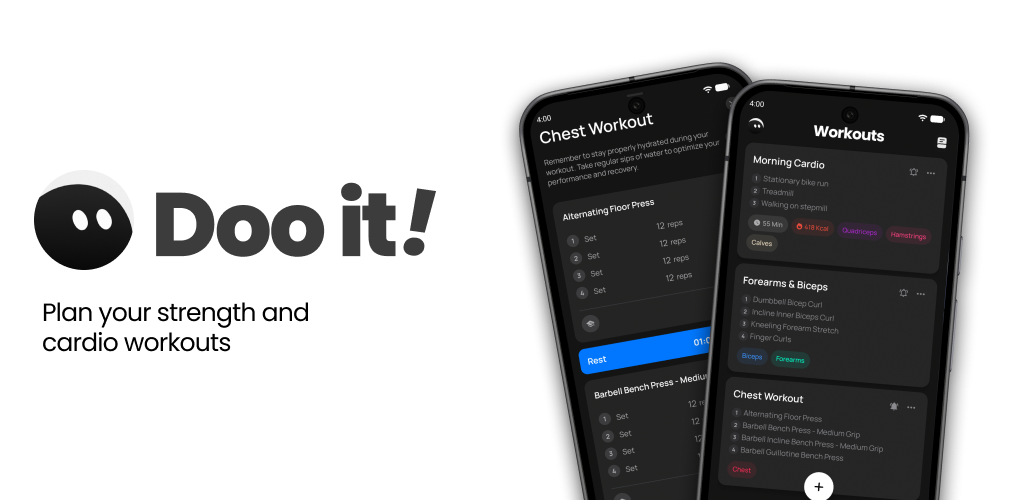
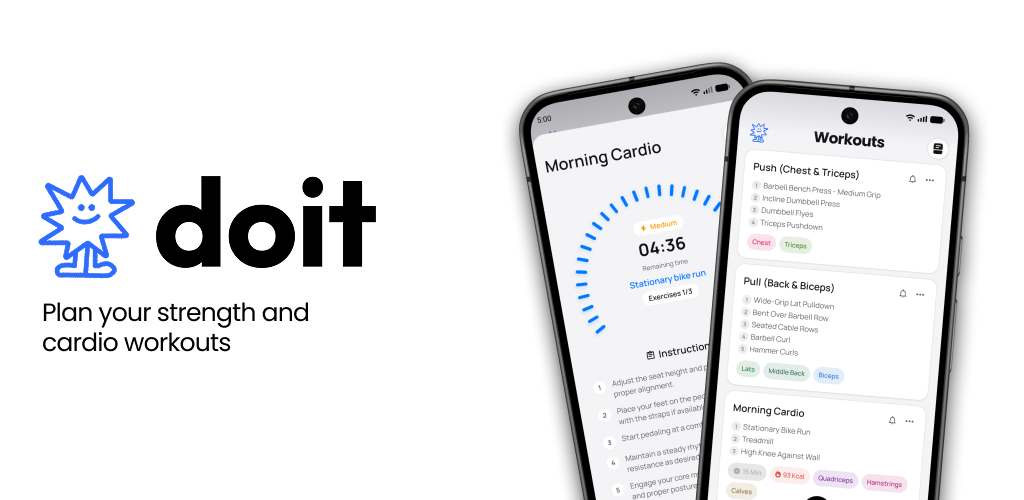
Refresh README branding and screenshots
Renames the app to "doit" in the README, updates screenshot references, adds four new screenshots, and refreshes the documentation assets.

diff --git a/README.md b/README.md
@@ -4,11 +4,11 @@
 
 <br>
 
-# Doo It!
+# doit
 
 ### Plan your strength and cardio workouts
 
-Doo it! is an offline mobile app that lets users create workout routines and track their exercises.
+doit is an offline mobile app that lets users create workout routines and track their exercises.
 The main goal is to offer a free, subscription-free, and offline option so that users can access it anytime, anywhere, since all the information is stored on the device.
 
 </div>
@@ -18,21 +18,27 @@ The main goal is to offer a free, subscription-free, and offline option so that 
 <br>
 
 <div align="center">
-  <img src="docs/assets/screen-1.png" width="30%" hspace="8" />
-  <img src="docs/assets/screen-2.png" width="30%" hspace="8" />
-  <img src="docs/assets/screen-3.png" width="30%" hspace="8" />
+  <img src="docs/assets/screen-(1).png" width="30%" hspace="8" />
+  <img src="docs/assets/screen-(2).png" width="30%" hspace="8" />
+  <img src="docs/assets/screen-(3).png" width="30%" hspace="8" />
 
   <br>
 
-  <img src="docs/assets/screen-4.png" width="30%" hspace="8" />
-  <img src="docs/assets/screen-5.png" width="30%" hspace="8" />
-  <img src="docs/assets/screen-6.png" width="30%" hspace="8" />
+  <img src="docs/assets/screen-(4).png" width="30%" hspace="8" />
+  <img src="docs/assets/screen-(5).png" width="30%" hspace="8" />
+  <img src="docs/assets/screen-(6).png" width="30%" hspace="8" />
 
   <br>
 
-  <img src="docs/assets/screen-7.png" width="30%" hspace="8" />
-  <img src="docs/assets/screen-8.png" width="30%" hspace="8" />
-  <img src="docs/assets/screen-9.png" width="30%" hspace="8" />
+  <img src="docs/assets/screen-(7).png" width="30%" hspace="8" />
+  <img src="docs/assets/screen-(8).png" width="30%" hspace="8" />
+  <img src="docs/assets/screen-(9).png" width="30%" hspace="8" />
+
+  <br>
+
+  <img src="docs/assets/screen-(10).png" width="30%" hspace="8" />
+  <img src="docs/assets/screen-(11).png" width="30%" hspace="8" />
+  <img src="docs/assets/screen-(12).png" width="30%" hspace="8" />
 </div>
 
 <br>
